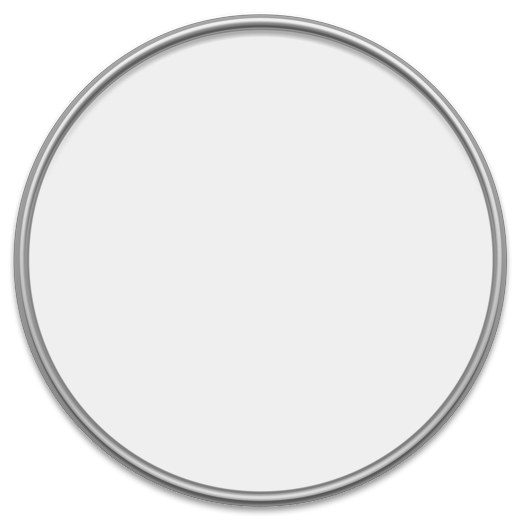
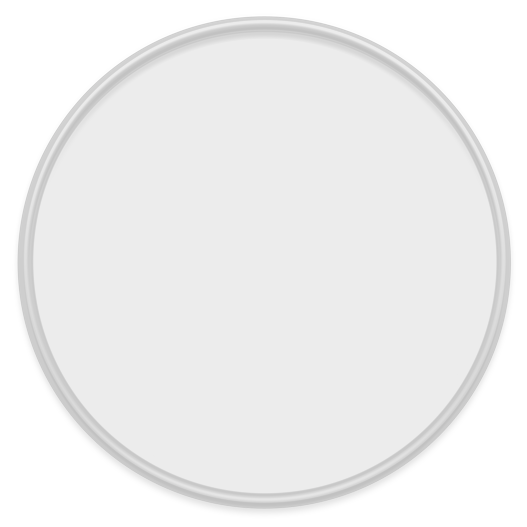
Clock Fine-tuning

Changed region(s): [[0.0, 0.0, 0.979, 0.979]]

diff --git a/Under Construction/Date and Time.app/Resources/widget_analogclock.py b/Under Construction/Date and Time.app/Resources/widget_analogclock.py
@@ -14,6 +14,7 @@ from PyQt5.QtGui import (
 )
 import sys
 import os
+import math
 
 from property_time import Time
 
@@ -43,6 +44,7 @@ class AnalogClock(QWidget, Time):
         # creating second hand
         self.sPointer = QPolygon(QRect(-1, 20, 2, -107))
 
+
         # colors
         # color for minute and hour hand
         self.bColor = None
@@ -52,7 +54,9 @@ class AnalogClock(QWidget, Time):
         # color for number clock face
         self.ClockFaceNumbColor = None
         self.ClockFaceHourColor = None
+        self.ClockFaceHourFont = QFont("Nimbus Sans", 13, QFont.Bold)
         self.ClockFaceMinuteColor = None
+        self.ClockFaceAmPm = None
 
         self.pen_square = None
         self.pen_round = None
@@ -82,6 +86,7 @@ class AnalogClock(QWidget, Time):
             self.ClockFaceNumbColor = QColor(0, 124, 202, 255)
             self.ClockFaceHourColor = QColor(29, 103, 188, 255)
             self.ClockFaceMinuteColor = QColor(74, 120, 157, 255)
+            self.ClockFaceAmPm = Qt.darkGray
 
             # Face clock background
             bg = QImage(os.path.join(
@@ -90,13 +95,16 @@ class AnalogClock(QWidget, Time):
             )).scaled(rec, rec, Qt.KeepAspectRatio, Qt.SmoothTransformation)
         else:
             # self.ClockFaceNumbColor
-            self.ClockFaceNumbColor = QColor(120, 120, 120, 255)
-            self.ClockFaceHourColor = QColor(120, 120, 120, 255)
-            self.ClockFaceMinuteColor = QColor(120, 120, 120, 255)
+            gray = QColor(146, 146, 146, 255)
+            self.ClockFaceNumbColor = gray
+            self.ClockFaceHourColor = gray
+            self.ClockFaceMinuteColor = gray
+            self.ClockFaceAmPm = gray
+
             # color for minute and hour hand
-            self.bColor = QColor(120, 120, 120, 255)
+            self.bColor = gray
             # color for second hand
-            self.sColor = QColor(160, 160, 160, 255)
+            self.sColor = gray
 
             bg = QImage(os.path.join(
                 os.path.dirname(__file__),
@@ -112,6 +120,7 @@ class AnalogClock(QWidget, Time):
         # set pen out of a loop
         self.pen_square = QPen(self.ClockFaceHourColor, 2, Qt.SolidLine, Qt.SquareCap, Qt.MiterJoin)
         self.pen_round = QPen(self.ClockFaceMinuteColor, 3.2, Qt.SolidLine, Qt.RoundCap, Qt.RoundJoin)
+        self.pen_am_pm = QPen(self.ClockFaceAmPm, 2, Qt.SolidLine)
 
 
 
@@ -158,33 +167,27 @@ class AnalogClock(QWidget, Time):
             # rotating the painter
             painter.rotate(6)
 
-        # Circle
-        # painter.setPen(Qt.NoPen)
-        # painter.setPen(QPen(self.bColor, 2))
-        # painter.drawEllipse(-97,
-        #                     -97,
-        #                     194, 194)
-
-
         # AM / PM
         painter.setPen(Qt.NoPen)
-        painter.setPen(QPen(Qt.darkGray, 2, Qt.SolidLine))
-        painter.setFont(QFont('Nimbus Sans', 20))
+        painter.setPen(self.pen_am_pm)
+        painter.setFont(QFont('Nimbus Sans', 19))
         if self.time.hour() <= 0 <= 12:
-            painter.drawText(-20, 50, "AM")
+            painter.drawText(-15, 45, "AM")
         else:
-            painter.drawText(-20, 50, "PM")
+            painter.drawText(-15, 45, "PM")
 
+        # Clock Face Number in hard for take less CPU
         painter.setPen(Qt.NoPen)
         painter.setPen(QPen(self.ClockFaceNumbColor, 2, Qt.SolidLine))
-        painter.setFont(QFont("Nimbus Sans", 13, QFont.Bold))
+        painter.setFont(self.ClockFaceHourFont)
+
         painter.drawText(-9, -62, "12")
         painter.drawText(29, -52, "1")
         painter.drawText(55, -29, "2")
         painter.drawText(65, 7, "3")
         painter.drawText(54, 40, "4")
         painter.drawText(30, 63, "5")
-        painter.drawText(-5, 73, "6")
+        painter.drawText(-4, 72, "6")
         painter.drawText(-38, 64, "7")
         painter.drawText(-64, 40, "8")
         painter.drawText(-73, 6, "9")
